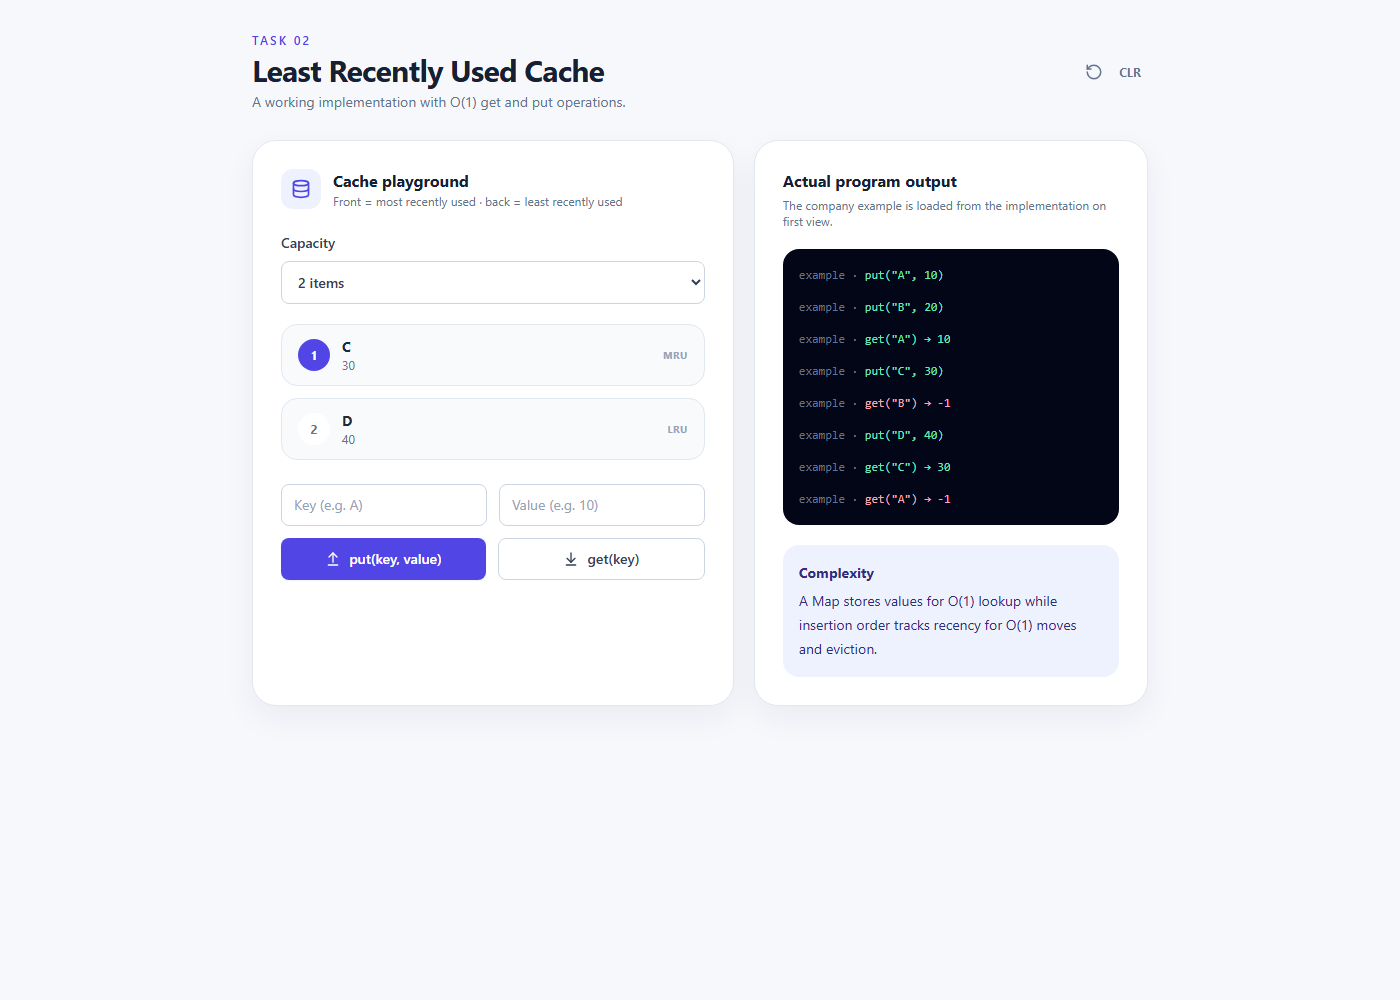
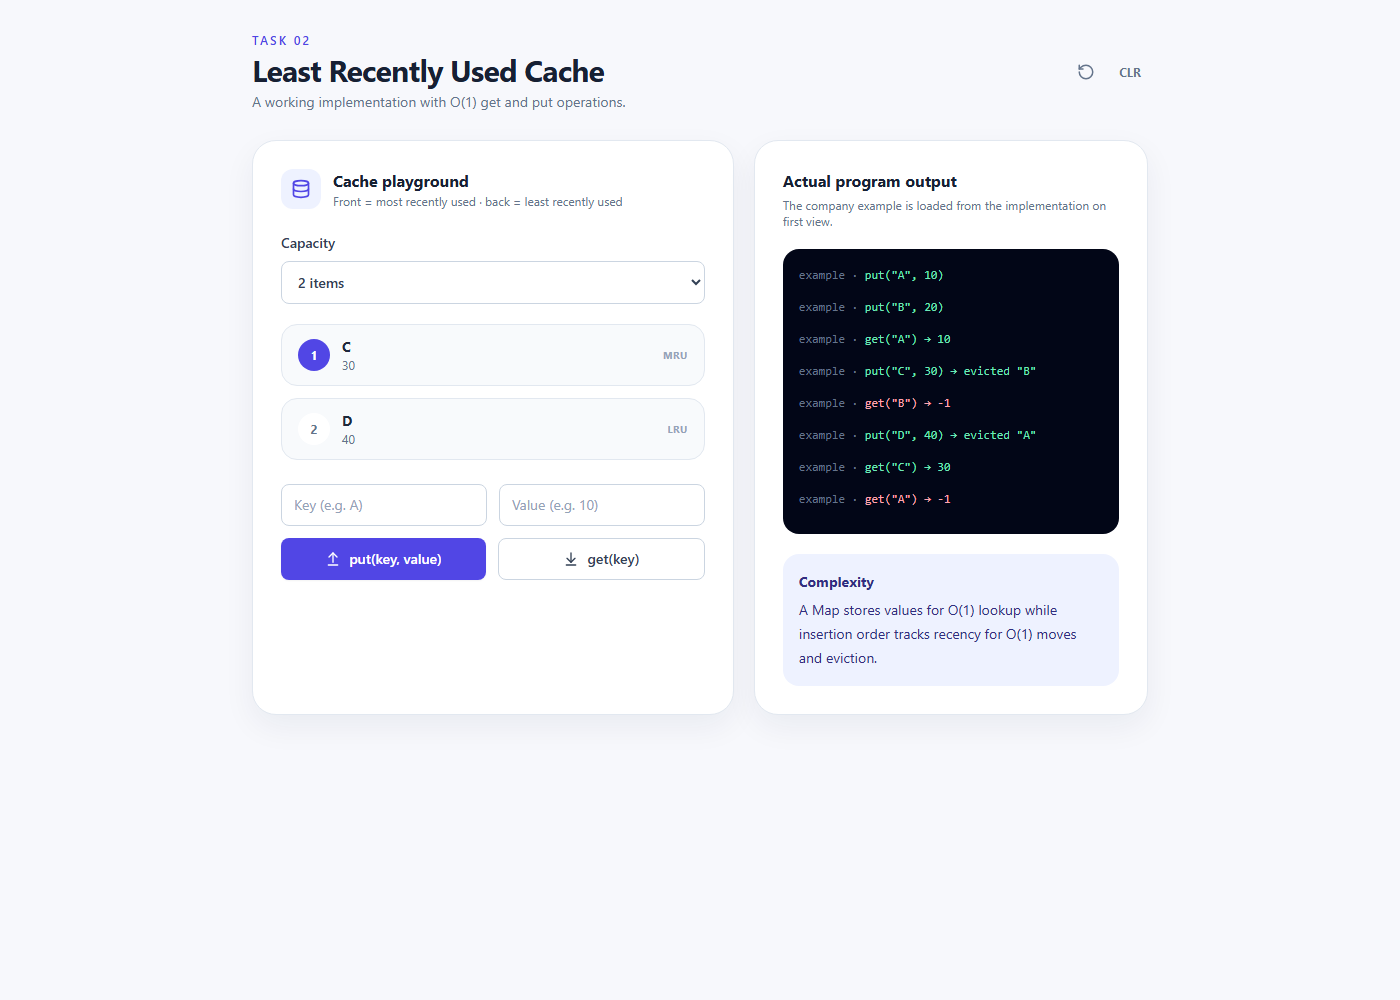
Fix order states and eviction evidence

Changed region(s): [[0.5529, 0.496, 0.7986, 0.682], [0.7679, 0.062, 0.7986, 0.093]]

diff --git a/task-1-order-tracking/src/main.jsx b/task-1-order-tracking/src/main.jsx
@@ -11,9 +11,10 @@ const phases = [
   { label: 'Delivered', description: 'Arrives at your doorstep', date: 'Estimated May 27' },
 ];
 const scenarios = {
-  'in-transit': { label: 'In transit', current: 2, title: 'Out for delivery', date: 'Monday, May 27', window: 'Between 9:00 AM – 6:00 PM', tone: 'amber', note: 'Your order is on its way and should arrive today.' },
-  delayed: { label: 'Delayed', current: 1, title: 'Delivery delayed', date: 'Wednesday, May 29', window: 'Updated delivery estimate', tone: 'rose', note: 'The courier is experiencing a small delay. We’ll keep you updated.' },
-  delivered: { label: 'Delivered', current: 3, title: 'Delivered', date: 'Monday, May 27', window: 'Delivered at 2:18 PM', tone: 'emerald', note: 'Your package was delivered safely to your doorstep.' },
+  'in-transit': { label: 'In transit', current: 2, title: 'Out for delivery', date: 'Monday, May 27', window: 'Between 9:00 AM – 6:00 PM', tone: 'amber', note: 'Your order is on its way and should arrive today.', supportLabel: 'Contact support' },
+  delayed: { label: 'Delayed', current: 1, title: 'Delivery delayed', date: 'Wednesday, May 29', window: 'Updated delivery estimate', tone: 'rose', note: 'The courier is experiencing a small delay. We’ll keep you updated.', supportLabel: 'Report delivery issue' },
+  delivered: { label: 'Delivered', current: 3, title: 'Delivered', date: 'Monday, May 27', window: 'Delivered at 2:18 PM', tone: 'emerald', note: 'Your package was delivered safely to your doorstep.', supportLabel: 'Contact support' },
+  'delivered-not-received': { label: 'Delivered · issue', current: 3, title: 'Can’t find your package?', date: 'Monday, May 27', window: 'Marked delivered at 2:18 PM', tone: 'rose', note: 'The courier marked this order as delivered, but you can report it if it has not arrived.', supportLabel: 'Report missing package' },
 };
 
 function App() {
@@ -21,10 +22,25 @@ function App() {
   const [scenarioKey, setScenarioKey] = useState(scenarios[initialScenario] ? initialScenario : 'in-transit');
   const [expanded, setExpanded] = useState(false);
   const [unavailable, setUnavailable] = useState(initialScenario === 'unavailable');
+  const [loading, setLoading] = useState(false);
+  const [supportOpen, setSupportOpen] = useState(false);
   const scenario = scenarios[scenarioKey];
-  function changeScenario(event) { const next = event.target.value; setUnavailable(next === 'unavailable'); if (next !== 'unavailable') setScenarioKey(next); }
 
-  if (unavailable) return <main className="flex min-h-screen items-center justify-center bg-[#f7f8fc] px-5"><div className="w-full max-w-md rounded-3xl border border-slate-200 bg-white p-8 text-center shadow-card"><div className="mx-auto flex h-12 w-12 items-center justify-center rounded-full bg-rose-50 text-rose-600"><AlertCircle /></div><h1 className="mt-4 text-lg font-bold text-ink">Tracking is temporarily unavailable</h1><p className="mt-2 text-sm leading-6 text-slate-500">We can’t reach the courier right now. Your order is safe, and we’ll keep trying to refresh its status.</p><button className="primary mt-6 w-full" onClick={() => setUnavailable(false)}>Try again <RefreshCw size={16} /></button><label className="mt-5 block text-left text-xs font-semibold text-slate-500">Preview state<select className="field" value="unavailable" onChange={changeScenario}><option value="unavailable">Tracking unavailable</option><option value="in-transit">In transit</option><option value="delayed">Delayed</option><option value="delivered">Delivered</option></select></label></div></main>;
-  return <main className="min-h-screen bg-[#f7f8fc] px-4 py-5 sm:px-6"><div className="mx-auto max-w-md"><header className="flex items-center justify-between"><button className="icon-button" aria-label="Go back"><ChevronLeft size={20} /></button><h1 className="text-sm font-bold text-ink">Order tracking</h1><button className="icon-button" onClick={() => setUnavailable(true)} aria-label="Preview tracking unavailable state"><AlertCircle size={18} /></button></header><label className="mt-4 block text-xs font-semibold text-slate-500">Preview state<select className="field mt-1" value={scenarioKey} onChange={changeScenario}><option value="in-transit">In transit</option><option value="delayed">Delayed</option><option value="delivered">Delivered</option><option value="unavailable">Tracking unavailable</option></select></label><section className="mt-6"><p className="text-sm text-slate-500">Estimated delivery</p><div className="mt-1 flex items-end justify-between gap-3"><div><h2 className="text-3xl font-extrabold tracking-tight text-ink">{scenario.date}</h2><p className="mt-1 text-sm text-slate-500">{scenario.window}</p></div><span className={`rounded-full px-3 py-1.5 text-xs font-bold ${scenario.tone === 'rose' ? 'bg-rose-50 text-rose-700' : scenario.tone === 'emerald' ? 'bg-emerald-50 text-emerald-700' : 'bg-amber-50 text-amber-700'}`}>{scenario.label}</span></div></section><section className="mt-7 rounded-3xl border border-slate-200 bg-white p-5 shadow-card"><div className="flex items-center justify-between"><div><p className="text-xs font-semibold uppercase tracking-wider text-slate-400">Current status</p><h2 className="mt-1 text-xl font-bold text-ink">{scenario.title}</h2></div><div className="flex h-12 w-12 items-center justify-center rounded-2xl bg-indigo-50 text-brand">{React.createElement(phaseIcons[phases[scenario.current].label], { size: 23 })}</div></div><div className="mt-4 h-2 overflow-hidden rounded-full bg-slate-100"><div className={`h-full rounded-full transition-all ${scenario.tone === 'rose' ? 'bg-rose-500' : scenario.tone === 'emerald' ? 'bg-emerald-500' : 'bg-brand'}`} style={{ width: `${(scenario.current / (phases.length - 1)) * 100}%` }} /></div><p className="mt-2 text-xs text-slate-500">{scenario.note}</p><div className="mt-7 space-y-0">{phases.map((phase, index) => { const Icon = phaseIcons[phase.label]; const active = index === scenario.current; const completed = index < scenario.current; return <div className="relative flex gap-4" key={phase.label}><div className="relative flex w-8 shrink-0 justify-center"><div className={`z-10 flex h-8 w-8 items-center justify-center rounded-full ${active ? 'bg-brand text-white ring-4 ring-indigo-100' : completed ? 'bg-emerald-500 text-white' : 'bg-slate-100 text-slate-400'}`}>{completed ? <Check size={15} /> : <Icon size={15} />}</div>{index < phases.length - 1 && <span className={`absolute top-8 h-16 w-px ${completed ? 'bg-emerald-300' : 'bg-slate-200'}`} />}</div><div className="min-h-[72px] flex-1 pb-4"><div className="flex items-start justify-between gap-3"><div><p className={`text-sm font-bold ${active ? 'text-brand' : 'text-slate-800'}`}>{phase.label}</p><p className="mt-1 text-xs leading-5 text-slate-500">{phase.description}</p></div><p className="text-xs font-medium text-slate-400">{phase.date}</p></div></div></div> })}</div></section><section className="mt-4 rounded-3xl border border-slate-200 bg-white p-5 shadow-card"><p className="text-xs font-semibold uppercase tracking-wider text-slate-400">Your order</p><div className="mt-4 flex gap-4"><div className="flex h-20 w-20 shrink-0 items-center justify-center rounded-2xl bg-slate-100 text-slate-400"><Package size={30} /></div><div className="min-w-0"><h2 className="font-bold text-ink">Wireless headphones</h2><p className="mt-1 text-sm text-slate-500">Midnight black · Qty 1</p><p className="mt-2 text-sm font-semibold text-slate-800">$129.00</p></div></div>{expanded && <div className="mt-4 border-t border-slate-100 pt-4 text-sm leading-6 text-slate-500">Delivering to <span className="font-semibold text-slate-700">18 Park View Road, Dhaka 1212</span>. Tracking updates may take a few minutes to appear.</div>}<button className="mt-4 text-sm font-semibold text-brand" onClick={() => setExpanded(!expanded)}>{expanded ? 'Hide details' : 'View delivery details'}</button></section><button className="primary mt-4 w-full rounded-2xl py-3.5"><Headphones size={17} /> Contact support</button><p className="mt-5 text-center text-xs text-slate-400">Order #VS-48291 · Last updated just now</p></div></main>;
+  function changeScenario(event) {
+    const next = event.target.value;
+    setSupportOpen(false);
+    setUnavailable(next === 'unavailable');
+    if (next !== 'unavailable') setScenarioKey(next);
+  }
+
+  function refreshOrder() {
+    setLoading(true);
+    window.setTimeout(() => { setLoading(false); setUnavailable(false); }, 650);
+  }
+
+  if (loading) return <main className="flex min-h-screen items-center justify-center bg-[#f7f8fc] px-5" aria-live="polite"><div className="w-full max-w-md rounded-3xl border border-slate-200 bg-white p-8 text-center shadow-card"><RefreshCw className="mx-auto animate-spin text-brand" size={28} /><h1 className="mt-4 text-lg font-bold text-ink">Refreshing your order</h1><p className="mt-2 text-sm text-slate-500">Fetching the latest courier update…</p></div></main>;
+  if (unavailable) return <main className="flex min-h-screen items-center justify-center bg-[#f7f8fc] px-5"><div className="w-full max-w-md rounded-3xl border border-slate-200 bg-white p-8 text-center shadow-card"><div className="mx-auto flex h-12 w-12 items-center justify-center rounded-full bg-rose-50 text-rose-600"><AlertCircle /></div><h1 className="mt-4 text-lg font-bold text-ink">Tracking is temporarily unavailable</h1><p className="mt-2 text-sm leading-6 text-slate-500">We can’t reach the courier right now. Your order is safe, and we’ll keep trying to refresh its status.</p><button className="primary mt-6 w-full" onClick={refreshOrder}>Try again <RefreshCw size={16} /></button><button className="secondary mt-3 w-full" onClick={() => setSupportOpen(!supportOpen)}><Headphones size={16} /> Contact support</button>{supportOpen && <p className="mt-3 text-xs text-slate-500" role="status">Support can help verify your order while tracking is unavailable.</p>}<label className="mt-5 block text-left text-xs font-semibold text-slate-500">Preview state<select className="field" value="unavailable" onChange={changeScenario}><option value="unavailable">Tracking unavailable</option><option value="in-transit">In transit</option><option value="delayed">Delayed</option><option value="delivered">Delivered</option><option value="delivered-not-received">Delivered but not received</option></select></label></div></main>;
+  const CurrentIcon = phaseIcons[phases[scenario.current].label];
+  return <main className="min-h-screen bg-[#f7f8fc] px-4 py-5 sm:px-6"><div className="mx-auto max-w-md"><header className="flex items-center justify-between"><button className="icon-button" aria-label="Go back"><ChevronLeft size={20} /></button><h1 className="text-sm font-bold text-ink">Order tracking</h1><button className="icon-button" onClick={() => setUnavailable(true)} aria-label="Preview tracking unavailable state"><AlertCircle size={18} /></button></header><label className="mt-4 block text-xs font-semibold text-slate-500">Preview state<select className="field mt-1" value={scenarioKey} onChange={changeScenario}><option value="in-transit">In transit</option><option value="delayed">Delayed</option><option value="delivered">Delivered</option><option value="delivered-not-received">Delivered but not received</option><option value="unavailable">Tracking unavailable</option></select></label><section className="mt-6"><p className="text-sm text-slate-500">Estimated delivery</p><div className="mt-1 flex items-end justify-between gap-3"><div><h2 className="text-3xl font-extrabold tracking-tight text-ink">{scenario.date}</h2><p className="mt-1 text-sm text-slate-500">{scenario.window}</p></div><span className={`rounded-full px-3 py-1.5 text-xs font-bold ${scenario.tone === 'rose' ? 'bg-rose-50 text-rose-700' : scenario.tone === 'emerald' ? 'bg-emerald-50 text-emerald-700' : 'bg-amber-50 text-amber-700'}`}>{scenario.label}</span></div></section><section className="mt-7 rounded-3xl border border-slate-200 bg-white p-5 shadow-card"><div className="flex items-center justify-between"><div><p className="text-xs font-semibold uppercase tracking-wider text-slate-400">Current status</p><h2 className="mt-1 text-xl font-bold text-ink">{scenario.title}</h2></div><div className={`flex h-12 w-12 items-center justify-center rounded-2xl ${scenario.tone === 'rose' ? 'bg-rose-50 text-rose-600' : scenario.tone === 'emerald' ? 'bg-emerald-50 text-emerald-600' : 'bg-indigo-50 text-brand'}`}><CurrentIcon size={23} /></div></div><div className="mt-4 h-2 overflow-hidden rounded-full bg-slate-100"><div className={`h-full rounded-full transition-all ${scenario.tone === 'rose' ? 'bg-rose-500' : scenario.tone === 'emerald' ? 'bg-emerald-500' : 'bg-brand'}`} style={{ width: `${(scenario.current / (phases.length - 1)) * 100}%` }} /></div><p className="mt-2 text-xs text-slate-500">{scenario.note}</p><div className="mt-7 space-y-0">{phases.map((phase, index) => { const Icon = phaseIcons[phase.label]; const active = index === scenario.current; const completed = index < scenario.current; return <div className="relative flex gap-4" key={phase.label}><div className="relative flex w-8 shrink-0 justify-center"><div className={`z-10 flex h-8 w-8 items-center justify-center rounded-full ${active ? 'bg-brand text-white ring-4 ring-indigo-100' : completed ? 'bg-emerald-500 text-white' : 'bg-slate-100 text-slate-400'}`}>{completed ? <Check size={15} /> : <Icon size={15} />}</div>{index < phases.length - 1 && <span className={`absolute top-8 h-16 w-px ${completed ? 'bg-emerald-300' : 'bg-slate-200'}`} />}</div><div className="min-h-[72px] flex-1 pb-4"><div className="flex items-start justify-between gap-3"><div><p className={`text-sm font-bold ${active ? 'text-brand' : 'text-slate-800'}`}>{phase.label}</p><p className="mt-1 text-xs leading-5 text-slate-500">{phase.description}</p></div><p className="text-xs font-medium text-slate-400">{phase.date}</p></div></div></div> })}</div></section><section className="mt-4 rounded-3xl border border-slate-200 bg-white p-5 shadow-card"><p className="text-xs font-semibold uppercase tracking-wider text-slate-400">Your order</p><div className="mt-4 flex gap-4"><div className="flex h-20 w-20 shrink-0 items-center justify-center rounded-2xl bg-slate-100 text-slate-400"><Package size={30} /></div><div className="min-w-0"><h2 className="font-bold text-ink">Wireless headphones</h2><p className="mt-1 text-sm text-slate-500">Midnight black · Qty 1</p><p className="mt-2 text-sm font-semibold text-slate-800">$129.00</p></div></div>{expanded && <div className="mt-4 border-t border-slate-100 pt-4 text-sm leading-6 text-slate-500">Delivering to <span className="font-semibold text-slate-700">18 Park View Road, Dhaka 1212</span>. Tracking updates may take a few minutes to appear.</div>}<button className="mt-4 text-sm font-semibold text-brand" onClick={() => setExpanded(!expanded)}>{expanded ? 'Hide details' : 'View delivery details'}</button></section><button className="primary mt-4 w-full rounded-2xl py-3.5" onClick={() => setSupportOpen(!supportOpen)}><Headphones size={17} /> {scenario.supportLabel}</button>{supportOpen && <div className="mt-3 rounded-2xl bg-indigo-50 p-4 text-sm leading-6 text-indigo-900" role="status">{scenarioKey === 'delivered-not-received' ? 'We’ll help investigate the delivery and connect you with support.' : 'Support is ready to help with this order.'}</div>}<p className="mt-5 text-center text-xs text-slate-400">Order #VS-48291 · Last updated just now</p></div></main>;
 }
 createRoot(document.getElementById('root')).render(<App />);

diff --git a/task-2-lru-cache/src/main.jsx b/task-2-lru-cache/src/main.jsx
@@ -14,7 +14,7 @@ function makeExampleCache() {
 function App() {
   const [capacity, setCapacity] = useState(2); const [key, setKey] = useState(''); const [value, setValue] = useState(''); const [events, setEvents] = useState(() => runCompanyExample().map(message => ({ message, time: 'example' }))); const [cacheState, setCacheState] = useState(makeExampleCache);
   function refresh(next, message) { setCacheState(next); setEvents(previous => [{ message, time: new Date().toLocaleTimeString([], { hour: '2-digit', minute: '2-digit' }) }, ...previous].slice(0, 10)); }
-  function put() { if (!key.trim() || !value.trim()) return; const next = new LRUCache(cacheState.capacity, cacheState.snapshot()); next.put(key.trim(), value.trim()); refresh(next, `put("${key.trim()}", ${value.trim()})`); setKey(''); setValue(''); }
+  function put() { if (!key.trim() || !value.trim()) return; const next = new LRUCache(cacheState.capacity, cacheState.snapshot()); const evicted = next.put(key.trim(), value.trim()); refresh(next, `put("${key.trim()}", ${value.trim()})${evicted ? ` → evicted "${evicted}"` : ''}`); setKey(''); setValue(''); }
   function get() { if (!key.trim()) return; const next = new LRUCache(cacheState.capacity, cacheState.snapshot()); const result = next.get(key.trim()); refresh(next, `get("${key.trim()}") → ${result}`); setKey(''); }
   function reset() { setCacheState(new LRUCache(capacity)); setEvents([]); }
   function loadExample() { setCapacity(2); setCacheState(makeExampleCache()); setEvents(runCompanyExample().map(message => ({ message, time: 'example' }))); }

diff --git a/task-2-lru-cache/src/runExample.js b/task-2-lru-cache/src/runExample.js
@@ -3,7 +3,7 @@ import { LRUCache } from './lruCache.js';
 export function runCompanyExample() {
   const cache = new LRUCache(2);
   const output = [];
-  const put = (key, value) => { cache.put(key, value); output.push(`put("${key}", ${value})`); };
+  const put = (key, value) => { const evicted = cache.put(key, value); output.push(`put("${key}", ${value})${evicted ? ` → evicted "${evicted}"` : ''}`); };
   const get = key => { const value = cache.get(key); output.push(`get("${key}") → ${value}`); return value; };
   put('A', 10);
   put('B', 20);

diff --git a/task-2-lru-cache/src/lruCache.test.js b/task-2-lru-cache/src/lruCache.test.js
@@ -41,6 +41,14 @@ test('capacity one always keeps the newest value', () => {
   assert.equal(cache.get('B'), 2);
 });
 
+test('put reports the key evicted by capacity overflow', () => {
+  const cache = new LRUCache(2);
+  cache.put('A', 1);
+  cache.put('B', 2);
+  assert.equal(cache.get('A'), 1);
+  assert.equal(cache.put('C', 3), 'B');
+});
+
 test('invalid capacities throw a useful error', () => {
   assert.throws(() => new LRUCache(0), /positive integer/);
   assert.throws(() => new LRUCache(1.5), /positive integer/);

diff --git a/task-2-lru-cache/src/lruCache.js b/task-2-lru-cache/src/lruCache.js
@@ -16,7 +16,10 @@ export class LRUCache {
   put(key, value) {
     if (this.map.has(key)) this.map.delete(key);
     this.map.set(key, value);
-    if (this.map.size > this.capacity) this.map.delete(this.map.keys().next().value);
+    if (this.map.size <= this.capacity) return null;
+    const evictedKey = this.map.keys().next().value;
+    this.map.delete(evictedKey);
+    return evictedKey;
   }
 
   entries() { return [...this.map.entries()].reverse(); }

diff --git a/task-2-lru-cache/README.md b/task-2-lru-cache/README.md
@@ -2,7 +2,7 @@
 
 Standalone React + Vite + Tailwind implementation of an LRU cache. The implementation lives in `src/lruCache.js`; the UI loads the company example and demonstrates `get`, `put`, recency ordering, misses, eviction, and returned values.
 
-The cache uses an ordered JavaScript `Map`: the oldest entry is evicted and successful reads move entries to the most-recent end. Both operations are average O(1), with O(capacity) space.
+The cache uses an ordered JavaScript `Map`: the oldest entry is evicted and successful reads move entries to the most-recent end. Both operations are average O(1), with O(capacity) space. `put` returns the evicted key when an insertion exceeds capacity, which makes eviction visible in the demo output.
 
 ```bash
 npm install

diff --git a/task-1-order-tracking/README.md b/task-1-order-tracking/README.md
@@ -2,7 +2,7 @@
 
 Standalone React + Vite + Tailwind implementation of a responsive mobile-first e-commerce order tracking screen. It includes normal, loading, and error states.
 
-Use the Preview state control to inspect in-transit, delayed, delivered, and tracking-unavailable states. The URL equivalents are `?scenario=in-transit`, `?scenario=delayed`, `?scenario=delivered`, and `?scenario=unavailable`.
+Use the Preview state control to inspect in-transit, delayed, delivered, delivered-but-not-received, and tracking-unavailable states. The URL equivalents are `?scenario=in-transit`, `?scenario=delayed`, `?scenario=delivered`, `?scenario=delivered-not-received`, and `?scenario=unavailable`.
 
 ```bash
 npm install
